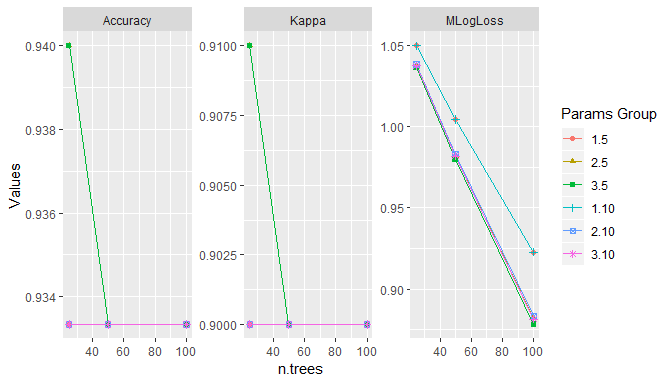
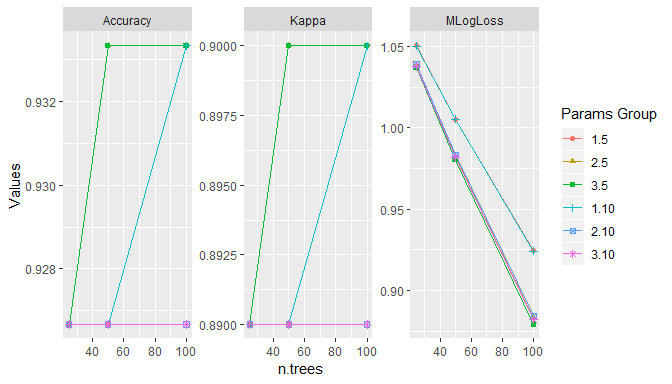
Check if newdata is missing

diff --git a/README.md b/README.md
@@ -293,10 +293,10 @@ predict(gbmfit, newdata = test) %>% head
 
 summary(perf)
 #>                    Mean    Median         SD       Min       Max NA
-#> Accuracy      0.9400000 0.9333333 0.05837300 0.8666667 1.0000000  0
-#> Kappa         0.9100000 0.9000000 0.08755950 0.8000000 1.0000000  0
-#> WeightedKappa 0.9322231 0.9249531 0.06590409 0.8421053 1.0000000  0
-#> MLogLoss      0.9218314 0.9239428 0.01006695 0.9084032 0.9391179  0
+#> Accuracy      0.9400000 0.9333333 0.04919099 0.8666667 1.0000000  0
+#> Kappa         0.9100000 0.9000000 0.07378648 0.8000000 1.0000000  0
+#> WeightedKappa 0.9330032 0.9249531 0.05424416 0.8500000 1.0000000  0
+#> MLogLoss      0.9225421 0.9232478 0.01008958 0.9087998 0.9379053  0
 
 plot(perf, metrics = c("Accuracy", "Kappa", "MLogLoss"))
 ```
